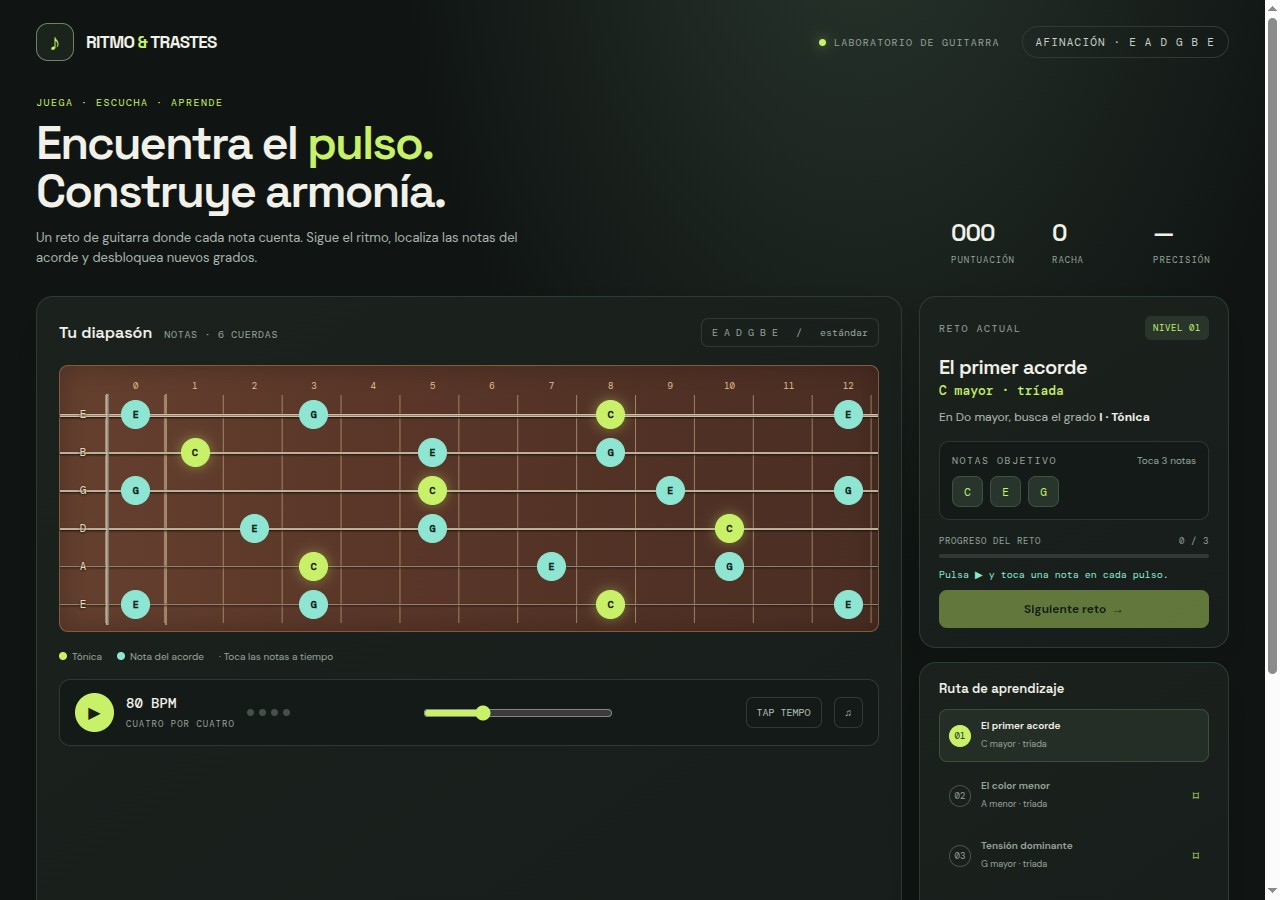
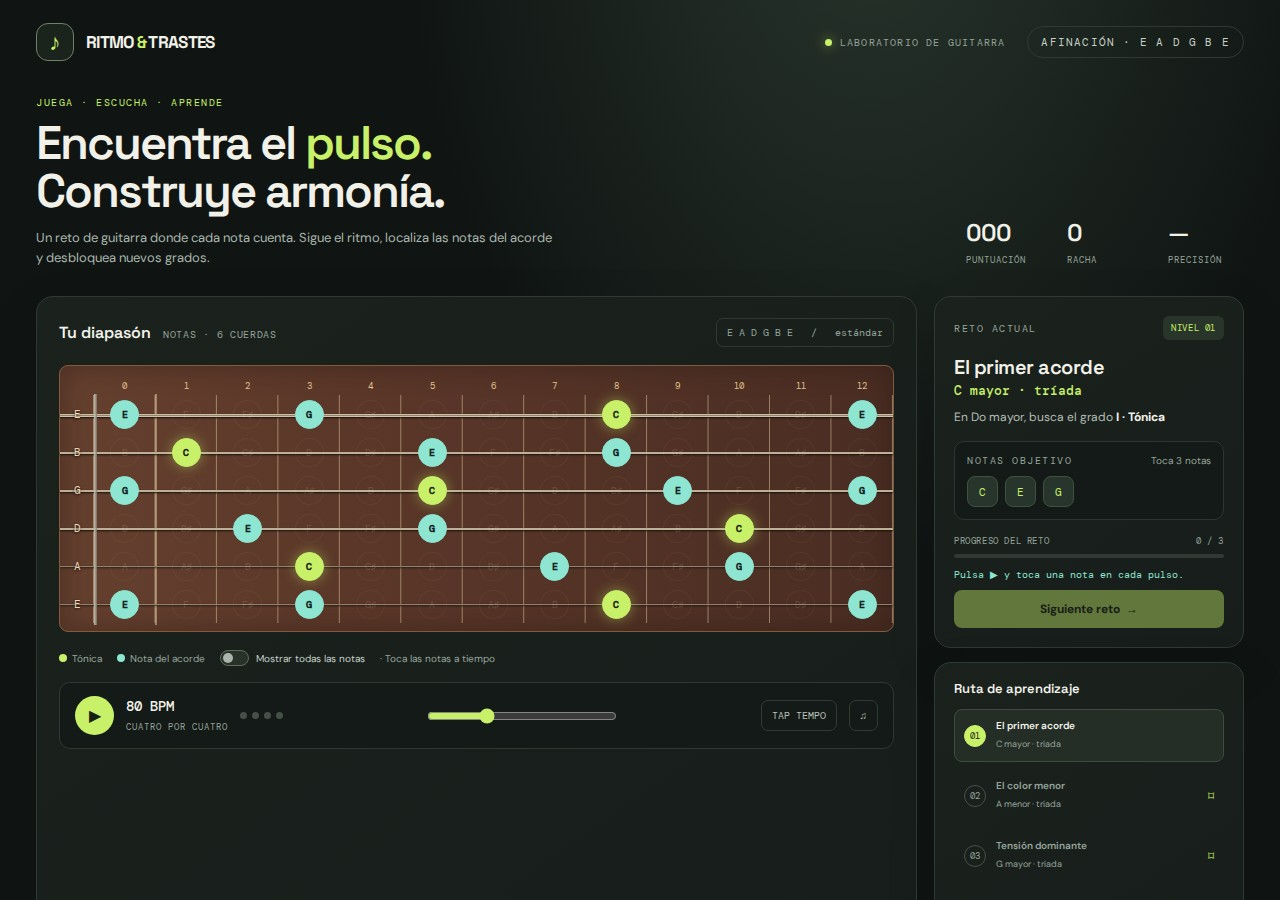
Publish static build for issue #2
Run: 42527793362
Attempt: 1
Generation: 5
Source: b05a051431da198b32a33af918828e517c6f4ea1

diff --git a/index.html b/index.html
@@ -5,15 +5,15 @@
 <title>Ritmo & Trastes — laboratorio de guitarra</title>
 <style>
 @import url('https://fonts.googleapis.com/css2?family=DM+Mono:wght@400;500&family=DM+Sans:wght@400;500;600;700;800&family=Space+Grotesk:wght@500;600;700&display=swap');
-:root{--bg:#101513;--panel:#191f1c;--panel2:#202824;--line:#303a34;--muted:#96a49b;--cream:#f2f1e9;--lime:#c8f169;--orange:#ff875f;--blue:#8de5d2;--wood:#5a3628;--gold:#e5b66e}*{box-sizing:border-box}body{margin:0;background:radial-gradient(ellipse at 68% -12%,#29352d 0,transparent 38%),var(--bg);color:var(--cream);font:15px 'DM Sans',sans-serif;min-height:100vh}button{font:inherit;color:inherit}.shell{max-width:1320px;margin:auto;padding:23px 36px 36px}.topbar,.brand,.top-meta,.hero,.hero-stats,.panel-head,.transport,.transport-left,.transport-right,.challenge-title,.progress-row,.legend,.footer-row{display:flex;align-items:center}.topbar,.hero,.panel-head,.transport,.challenge-title,.progress-row,.footer-row{justify-content:space-between}.topbar{margin-bottom:35px}.brand{gap:12px}.brand-mark{width:38px;height:38px;border:1px solid #718068;border-radius:12px;display:grid;place-items:center;color:var(--lime);font-size:23px;background:#1a231c}.brand-name{font:700 17px 'Space Grotesk';letter-spacing:-.7px}.brand-name span{color:var(--lime)}.top-meta{gap:22px;color:var(--muted);font:10px 'DM Mono';text-transform:uppercase;letter-spacing:1.2px}.live-dot{display:inline-block;width:7px;height:7px;border-radius:50%;background:var(--lime);margin-right:8px;box-shadow:0 0 12px #c8f169a8}.pill{border:1px solid var(--line);border-radius:99px;padding:8px 13px;color:#c5d0c8;font-size:11px}.hero{align-items:flex-end;margin-bottom:28px;gap:25px}.eyebrow,.label{font:10px 'DM Mono';text-transform:uppercase;letter-spacing:1.5px;color:var(--muted)}.eyebrow{color:var(--lime);margin:0 0 11px}.hero h1{font:600 clamp(28px,4vw,47px)/1.02 'Space Grotesk';letter-spacing:-2px;margin:0}.hero h1 em{color:var(--lime);font-style:normal}.sub{color:#aab5ad;max-width:520px;line-height:1.55;font-size:13px;margin:12px 0 0}.hero-stats{gap:25px}.stat{min-width:76px}.stat b{display:block;font:600 24px 'Space Grotesk';letter-spacing:-1px}.stat span{font:9px 'DM Mono';color:var(--muted);letter-spacing:1px;text-transform:uppercase}.layout{display:grid;grid-template-columns:minmax(0,1fr) 310px;gap:17px}.panel{background:linear-gradient(145deg,#1b221e,#171d1a);border:1px solid #303a34;border-radius:17px;box-shadow:0 18px 50px #0002}.board-panel{padding:21px 22px 18px;min-width:0}.panel-head{margin-bottom:17px}.section-title{font:600 16px 'Space Grotesk';margin:0}.section-title small{font:10px 'DM Mono';color:var(--muted);margin-left:8px;letter-spacing:.7px}.tuning{border:1px solid var(--line);padding:7px 10px;border-radius:7px;color:var(--muted);font:10px 'DM Mono'}.board-wrap{overflow-x:auto;padding:1px 0 10px;scrollbar-color:#48564c transparent;scrollbar-width:thin}.fretboard{min-width:720px;position:relative;background:linear-gradient(90deg,#65402f,#5b3729 35%,#4a2d23);border:1px solid #845a3f;border-radius:9px;padding:10px 0 8px;box-shadow:inset 0 0 28px #20130e66}.fret-numbers{display:grid;grid-template-columns:46px repeat(13,minmax(45px,1fr));height:19px;color:#e3c18f;font:9px 'DM Mono';text-align:center;align-items:center}.strings{position:relative;background-image:linear-gradient(to right,transparent calc(100% - 1px),#dbc89c88 calc(100% - 1px));background-repeat:repeat-x;background-size:7.2% 100%;background-position:46px 0}.string-row{display:grid;grid-template-columns:46px repeat(13,minmax(45px,1fr));height:38px;position:relative;align-items:center}.string-row:before{content:'';position:absolute;left:0;right:0;top:50%;height:var(--thick);background:linear-gradient(180deg,#eadbbb,#8f826e 50%,#eee2c9);box-shadow:0 1px 2px #1a100a;pointer-events:none}.string-label{z-index:1;text-align:center;color:#e8d8ba;font:11px 'DM Mono';text-shadow:0 1px 3px #20120c}.fret{z-index:1;justify-self:center;display:grid;place-items:center;width:29px;height:29px;border:1px solid transparent;border-radius:50%;background:transparent;color:transparent;cursor:pointer;font:10px 'DM Mono';transition:.12s}.fret:hover{background:#ffffff18;color:#f8eaca;border-color:#ffffff30}.fret.root{background:var(--lime);color:#182015;border-color:var(--lime);font-weight:700;box-shadow:0 0 13px #c8f16970}.fret.in-chord{background:#8de5d2;color:#13211d;border-color:#8de5d2;font-weight:700}.fret.hit{transform:scale(1.18);box-shadow:0 0 0 4px #fff5}.fret.muted{cursor:default}.fretboard:after{content:'';position:absolute;left:46px;top:28px;bottom:6px;width:3px;background:linear-gradient(90deg,#d9d3c4,#77736b);opacity:.85;pointer-events:none}.fretboard:before{content:'';position:absolute;left:calc(46px + (100% - 46px)/13);top:28px;bottom:6px;width:2px;background:#dbc89c88;pointer-events:none}.legend{gap:15px;margin-top:8px;color:var(--muted);font-size:10px}.key{display:inline-block;width:8px;height:8px;border-radius:50%;margin-right:5px;background:var(--lime)}.key.blue{background:var(--blue)}.transport{margin-top:16px;padding:13px 15px;background:#141a17;border:1px solid #2e3932;border-radius:11px;gap:12px}.transport-left,.transport-right{gap:12px}.play-btn{width:39px;height:39px;border:0;border-radius:50%;background:var(--lime);color:#172015;font-size:16px;cursor:pointer}.play-btn:hover,.primary:hover{filter:brightness(1.08);transform:translateY(-1px)}.tempo b{font:500 14px 'DM Mono';display:block}.tempo small{color:var(--muted);font:9px 'DM Mono';letter-spacing:1px}.tempo-range{width:min(190px,19vw);accent-color:var(--lime)}.tap-btn,.icon-btn{background:transparent;border:1px solid var(--line);border-radius:7px;padding:8px 10px;font:10px 'DM Mono';color:#b4c0b7;cursor:pointer}.beat-lights{display:flex;gap:5px}.beat{width:7px;height:7px;border-radius:50%;background:#445048}.beat.on{background:var(--lime);box-shadow:0 0 9px #c8f169}.aside{display:flex;flex-direction:column;gap:14px}.challenge{padding:19px}.challenge-title{gap:10px}.badge{background:#29352b;color:var(--lime);padding:6px 8px;border-radius:6px;font:9px 'DM Mono';letter-spacing:.6px}.challenge h2{font:600 20px 'Space Grotesk';letter-spacing:-.5px;margin:14px 0 2px}.chord-name{color:var(--lime);font:500 13px 'DM Mono'}.degree-line{font-size:12px;color:#b1bbb3;margin:10px 0 16px}.degree-line strong{color:var(--cream)}.target-card{background:#141a17;border:1px solid #2c3630;border-radius:10px;padding:12px}.target-top{display:flex;justify-content:space-between;align-items:center;margin-bottom:9px}.target-notes{display:flex;gap:7px;flex-wrap:wrap}.note-chip{width:31px;height:31px;border-radius:8px;display:grid;place-items:center;background:#27352c;color:var(--lime);font:11px 'DM Mono';border:1px solid #3e523f}.note-chip.done{background:var(--lime);color:#182015}.target-hint{color:var(--muted);font-size:10px}.progress-row{margin:15px 0 7px;color:var(--muted);font:9px 'DM Mono';letter-spacing:.6px}.progress{height:4px;background:#303a34;border-radius:4px;overflow:hidden}.progress i{display:block;height:100%;width:0;background:var(--lime);transition:width .25s}.feedback{height:22px;margin-top:10px;color:var(--blue);font:10px 'DM Mono'}.primary{width:100%;background:var(--lime);color:#182015;border:0;border-radius:8px;padding:11px;font-weight:700;font-size:12px;cursor:pointer;transition:.15s}.primary:disabled{opacity:.42;cursor:not-allowed;transform:none}.levels{padding:17px 19px}.levels h3{margin:0 0 12px;font:600 13px 'Space Grotesk'}.level-list{display:grid;gap:7px}.level-item{display:flex;align-items:center;gap:10px;padding:9px;border-radius:8px;border:1px solid transparent;color:#96a49b}.level-item.active{background:#242d26;border-color:#3e4c40;color:var(--cream)}.level-num{width:22px;height:22px;display:grid;place-items:center;border:1px solid #465148;border-radius:50%;font:9px 'DM Mono'}.level-item.active .level-num,.level-item.complete .level-num{background:var(--lime);color:#172015;border-color:var(--lime)}.level-info{flex:1}.level-info b{display:block;font-size:10px;font-weight:600}.level-info small{color:var(--muted);font-size:9px}.level-check{color:var(--lime);font-size:12px}.coach{padding:15px 17px;background:#1d2822;border:1px solid #34463a;border-radius:12px}.coach .label{color:var(--blue)}.coach p{margin:7px 0 0;color:#bdc9c0;font-size:11px;line-height:1.55}.footer-row{margin-top:17px;color:#77857a;font:9px 'DM Mono';letter-spacing:.6px}.footer-row a{color:#a7b3a9;text-decoration:none}.toast{position:fixed;left:50%;bottom:22px;transform:translate(-50%,20px);background:#d5f786;color:#172015;padding:11px 17px;border-radius:10px;font-weight:700;font-size:12px;opacity:0;pointer-events:none;transition:.2s;box-shadow:0 8px 30px #0006}.toast.show{opacity:1;transform:translate(-50%,0)}
-@media(max-width:900px){.shell{padding:20px}.layout{grid-template-columns:1fr}.aside{display:grid;grid-template-columns:1fr 1fr}.coach{grid-column:1/-1}.hero-stats{gap:16px}.hero-stats .stat:last-child{display:none}}@media(max-width:600px){.shell{padding:15px 13px 25px}.topbar{margin-bottom:25px}.top-meta{gap:8px}.top-meta .pill{display:none}.hero{display:block}.hero-stats{margin-top:20px;justify-content:flex-start}.hero-stats .stat:last-child{display:block}.hero h1{font-size:35px}.sub{font-size:12px}.board-panel{padding:15px 12px}.aside{grid-template-columns:1fr}.coach{grid-column:auto}.transport{flex-wrap:wrap;padding:11px}.tempo-range{width:100%;order:3}.transport-left{flex:1}.transport-right{gap:7px}.beat-lights{display:none}.fretboard{min-width:700px}.footer-row{font-size:8px}}
+:root{--bg:#101513;--panel:#191f1c;--panel2:#202824;--line:#303a34;--muted:#96a49b;--cream:#f2f1e9;--lime:#c8f169;--orange:#ff875f;--blue:#8de5d2;--wood:#5a3628;--gold:#e5b66e}*{box-sizing:border-box}body{margin:0;background:radial-gradient(ellipse at 68% -12%,#29352d 0,transparent 38%),var(--bg);color:var(--cream);font:15px 'DM Sans',sans-serif;min-height:100vh}button{font:inherit;color:inherit}.shell{max-width:1320px;margin:auto;padding:23px 36px 36px}.topbar,.brand,.top-meta,.hero,.hero-stats,.panel-head,.transport,.transport-left,.transport-right,.challenge-title,.progress-row,.legend,.footer-row{display:flex;align-items:center}.topbar,.hero,.panel-head,.transport,.challenge-title,.progress-row,.footer-row{justify-content:space-between}.topbar{margin-bottom:35px}.brand{gap:12px}.brand-mark{width:38px;height:38px;border:1px solid #718068;border-radius:12px;display:grid;place-items:center;color:var(--lime);font-size:23px;background:#1a231c}.brand-name{font:700 17px 'Space Grotesk';letter-spacing:-.7px}.brand-name span{color:var(--lime)}.top-meta{gap:22px;color:var(--muted);font:10px 'DM Mono';text-transform:uppercase;letter-spacing:1.2px}.live-dot{display:inline-block;width:7px;height:7px;border-radius:50%;background:var(--lime);margin-right:8px;box-shadow:0 0 12px #c8f169a8}.pill{border:1px solid var(--line);border-radius:99px;padding:8px 13px;color:#c5d0c8;font-size:11px}.hero{align-items:flex-end;margin-bottom:28px;gap:25px}.eyebrow,.label{font:10px 'DM Mono';text-transform:uppercase;letter-spacing:1.5px;color:var(--muted)}.eyebrow{color:var(--lime);margin:0 0 11px}.hero h1{font:600 clamp(28px,4vw,47px)/1.02 'Space Grotesk';letter-spacing:-2px;margin:0}.hero h1 em{color:var(--lime);font-style:normal}.sub{color:#aab5ad;max-width:520px;line-height:1.55;font-size:13px;margin:12px 0 0}.hero-stats{gap:25px}.stat{min-width:76px}.stat b{display:block;font:600 24px 'Space Grotesk';letter-spacing:-1px}.stat span{font:9px 'DM Mono';color:var(--muted);letter-spacing:1px;text-transform:uppercase}.layout{display:grid;grid-template-columns:minmax(0,1fr) 310px;gap:17px}.panel{background:linear-gradient(145deg,#1b221e,#171d1a);border:1px solid #303a34;border-radius:17px;box-shadow:0 18px 50px #0002}.board-panel{padding:21px 22px 18px;min-width:0}.panel-head{margin-bottom:17px}.section-title{font:600 16px 'Space Grotesk';margin:0}.section-title small{font:10px 'DM Mono';color:var(--muted);margin-left:8px;letter-spacing:.7px}.tuning{border:1px solid var(--line);padding:7px 10px;border-radius:7px;color:var(--muted);font:10px 'DM Mono'}.board-wrap{width:100%;min-width:0;overflow-x:hidden;padding:1px 0 10px}.fretboard{width:100%;min-width:0;position:relative;background:linear-gradient(90deg,#65402f,#5b3729 35%,#4a2d23);border:1px solid #845a3f;border-radius:9px;padding:10px 0 8px;box-shadow:inset 0 0 28px #20130e66}.fret-numbers{display:grid;grid-template-columns:34px repeat(13,minmax(0,1fr));height:19px;color:#e3c18f;font:9px 'DM Mono';text-align:center;align-items:center}.strings{position:relative;background-image:linear-gradient(to right,transparent calc(100% - 1px),#dbc89c88 calc(100% - 1px));background-repeat:repeat-x;background-size:calc((100% - 34px)/13) 100%;background-position:34px 0}.string-row{display:grid;grid-template-columns:34px repeat(13,minmax(0,1fr));height:38px;position:relative;align-items:center}.string-row:before{content:'';position:absolute;left:0;right:0;top:50%;height:var(--thick);background:linear-gradient(180deg,#eadbbb,#8f826e 50%,#eee2c9);box-shadow:0 1px 2px #1a100a;pointer-events:none}.string-label{z-index:1;text-align:center;color:#e8d8ba;font:11px 'DM Mono';text-shadow:0 1px 3px #20120c}.fret{z-index:1;justify-self:center;display:grid;place-items:center;width:29px;height:29px;border:1px solid transparent;border-radius:50%;background:transparent;color:transparent;cursor:pointer;font:10px 'DM Mono';transition:.12s}.fret:hover{background:#ffffff18;color:#f8eaca;border-color:#ffffff30}.fret.root{background:var(--lime);color:#182015;border-color:var(--lime);font-weight:700;box-shadow:0 0 13px #c8f16970}.fret.in-chord{background:#8de5d2;color:#13211d;border-color:#8de5d2;font-weight:700}.fretboard.show-all .fret:not(.root):not(.in-chord){background:#241912b8;color:#f8eaca;border-color:#d6b98a66}.fretboard.show-all .fret:hover{background:#ffffff30}.fret.hit{transform:scale(1.18);box-shadow:0 0 0 4px #fff5}.fret.muted{cursor:default}.fretboard:after{content:'';position:absolute;left:34px;top:28px;bottom:6px;width:3px;background:linear-gradient(90deg,#d9d3c4,#77736b);opacity:.85;pointer-events:none}.fretboard:before{content:'';position:absolute;left:calc(34px + (100% - 34px)/13);top:28px;bottom:6px;width:2px;background:#dbc89c88;pointer-events:none}.legend{gap:15px;margin-top:8px;color:var(--muted);font-size:10px;flex-wrap:wrap}.key{display:inline-block;width:8px;height:8px;border-radius:50%;margin-right:5px;background:var(--lime)}.key.blue{background:var(--blue)}.show-notes-toggle{display:inline-flex;align-items:center;gap:7px;cursor:pointer;white-space:nowrap;color:#c5d0c8}.show-notes-toggle input{position:absolute;width:1px;height:1px;opacity:0}.switch{width:29px;height:16px;border:1px solid #536257;border-radius:99px;background:#28322b;position:relative;transition:.18s;pointer-events:none}.switch:after{content:'';position:absolute;width:10px;height:10px;left:2px;top:2px;border-radius:50%;background:#aab5ad;transition:.18s}.show-notes-toggle input:checked+.switch{background:#485e33;border-color:var(--lime)}.show-notes-toggle input:checked+.switch:after{transform:translateX(13px);background:var(--lime)}.show-notes-toggle input:focus-visible+.switch{outline:2px solid var(--cream);outline-offset:2px}.transport{margin-top:16px;padding:13px 15px;background:#141a17;border:1px solid #2e3932;border-radius:11px;gap:12px}.transport-left,.transport-right{gap:12px}.play-btn{width:39px;height:39px;border:0;border-radius:50%;background:var(--lime);color:#172015;font-size:16px;cursor:pointer}.play-btn:hover,.primary:hover{filter:brightness(1.08);transform:translateY(-1px)}.tempo b{font:500 14px 'DM Mono';display:block}.tempo small{color:var(--muted);font:9px 'DM Mono';letter-spacing:1px}.tempo-range{width:min(190px,19vw);accent-color:var(--lime)}.tap-btn,.icon-btn{background:transparent;border:1px solid var(--line);border-radius:7px;padding:8px 10px;font:10px 'DM Mono';color:#b4c0b7;cursor:pointer}.beat-lights{display:flex;gap:5px}.beat{width:7px;height:7px;border-radius:50%;background:#445048}.beat.on{background:var(--lime);box-shadow:0 0 9px #c8f169}.aside{display:flex;flex-direction:column;gap:14px}.challenge{padding:19px}.challenge-title{gap:10px}.badge{background:#29352b;color:var(--lime);padding:6px 8px;border-radius:6px;font:9px 'DM Mono';letter-spacing:.6px}.challenge h2{font:600 20px 'Space Grotesk';letter-spacing:-.5px;margin:14px 0 2px}.chord-name{color:var(--lime);font:500 13px 'DM Mono'}.degree-line{font-size:12px;color:#b1bbb3;margin:10px 0 16px}.degree-line strong{color:var(--cream)}.target-card{background:#141a17;border:1px solid #2c3630;border-radius:10px;padding:12px}.target-top{display:flex;justify-content:space-between;align-items:center;margin-bottom:9px}.target-notes{display:flex;gap:7px;flex-wrap:wrap}.note-chip{width:31px;height:31px;border-radius:8px;display:grid;place-items:center;background:#27352c;color:var(--lime);font:11px 'DM Mono';border:1px solid #3e523f}.note-chip.done{background:var(--lime);color:#182015}.target-hint{color:var(--muted);font-size:10px}.progress-row{margin:15px 0 7px;color:var(--muted);font:9px 'DM Mono';letter-spacing:.6px}.progress{height:4px;background:#303a34;border-radius:4px;overflow:hidden}.progress i{display:block;height:100%;width:0;background:var(--lime);transition:width .25s}.feedback{height:22px;margin-top:10px;color:var(--blue);font:10px 'DM Mono'}.primary{width:100%;background:var(--lime);color:#182015;border:0;border-radius:8px;padding:11px;font-weight:700;font-size:12px;cursor:pointer;transition:.15s}.primary:disabled{opacity:.42;cursor:not-allowed;transform:none}.levels{padding:17px 19px}.levels h3{margin:0 0 12px;font:600 13px 'Space Grotesk'}.level-list{display:grid;gap:7px}.level-item{display:flex;align-items:center;gap:10px;padding:9px;border-radius:8px;border:1px solid transparent;color:#96a49b}.level-item.active{background:#242d26;border-color:#3e4c40;color:var(--cream)}.level-num{width:22px;height:22px;display:grid;place-items:center;border:1px solid #465148;border-radius:50%;font:9px 'DM Mono'}.level-item.active .level-num,.level-item.complete .level-num{background:var(--lime);color:#172015;border-color:var(--lime)}.level-info{flex:1}.level-info b{display:block;font-size:10px;font-weight:600}.level-info small{color:var(--muted);font-size:9px}.level-check{color:var(--lime);font-size:12px}.coach{padding:15px 17px;background:#1d2822;border:1px solid #34463a;border-radius:12px}.coach .label{color:var(--blue)}.coach p{margin:7px 0 0;color:#bdc9c0;font-size:11px;line-height:1.55}.footer-row{margin-top:17px;color:#77857a;font:9px 'DM Mono';letter-spacing:.6px}.footer-row a{color:#a7b3a9;text-decoration:none}.toast{position:fixed;left:50%;bottom:22px;transform:translate(-50%,20px);background:#d5f786;color:#172015;padding:11px 17px;border-radius:10px;font-weight:700;font-size:12px;opacity:0;pointer-events:none;transition:.2s;box-shadow:0 8px 30px #0006}.toast.show{opacity:1;transform:translate(-50%,0)}
+@media(max-width:900px){.shell{padding:20px}.layout{grid-template-columns:1fr}.aside{display:grid;grid-template-columns:1fr 1fr}.coach{grid-column:1/-1}.hero-stats{gap:16px}.hero-stats .stat:last-child{display:none}}@media(max-width:600px){.shell{padding:15px 13px 25px}.topbar{margin-bottom:25px}.top-meta{gap:8px}.top-meta .pill{display:none}.hero{display:block}.hero-stats{margin-top:20px;justify-content:flex-start}.hero-stats .stat:last-child{display:block}.hero h1{font-size:35px}.sub{font-size:12px}.board-panel{padding:15px 12px}.aside{grid-template-columns:1fr}.coach{grid-column:auto}.transport{flex-wrap:wrap;padding:11px}.tempo-range{width:100%;order:3}.transport-left{flex:1}.transport-right{gap:7px}.beat-lights{display:none}.fretboard{min-width:0}.fret-numbers,.string-row{grid-template-columns:28px repeat(13,minmax(0,1fr))}.strings{background-position:28px 0;background-size:calc((100% - 28px)/13) 100%}.fretboard:after{left:28px}.fretboard:before{left:calc(28px + (100% - 28px)/13)}.fret{width:100%;height:26px;font-size:clamp(7px,2.4vw,10px);padding:0}.string-row{height:33px}.legend{gap:9px;font-size:9px}.play-hint{width:100%;padding-left:0}.footer-row{font-size:8px}}
 </style>
 </head>
 <body>
 <main class="shell">
 <header class="topbar"><div class="brand"><div class="brand-mark">♪</div><div class="brand-name">RITMO <span>&</span> TRASTES</div></div><div class="top-meta"><span><i class="live-dot"></i>LABORATORIO DE GUITARRA</span><span class="pill">AFINACIÓN · E A D G B E</span></div></header>
 <section class="hero"><div><p class="eyebrow">JUEGA · ESCUCHA · APRENDE</p><h1>Encuentra el <em>pulso.</em><br>Construye armonía.</h1><p class="sub">Un reto de guitarra donde cada nota cuenta. Sigue el ritmo, localiza las notas del acorde y desbloquea nuevos grados.</p></div><div class="hero-stats"><div class="stat"><b id="score">000</b><span>Puntuación</span></div><div class="stat"><b id="streak">0</b><span>Racha</span></div><div class="stat"><b id="accuracy">—</b><span>Precisión</span></div></div></section>
-<div class="layout"><section class="panel board-panel"><div class="panel-head"><h2 class="section-title">Tu diapasón <small>NOTAS · 6 CUERDAS</small></h2><span class="tuning">E A D G B E &nbsp; / &nbsp; estándar</span></div><div class="board-wrap"><div class="fretboard"><div class="fret-numbers" id="fretNumbers"></div><div class="strings" id="strings"></div></div></div><div class="legend"><span><i class="key"></i>Tónica</span><span><i class="key blue"></i>Nota del acorde</span><span>· Toca las notas a tiempo</span></div><div class="transport"><div class="transport-left"><button class="play-btn" id="play" aria-label="Iniciar metrónomo">▶</button><div class="tempo"><b><span id="bpm">80</span> BPM</b><small>CUATRO POR CUATRO</small></div><div class="beat-lights" id="lights"><i class="beat"></i><i class="beat"></i><i class="beat"></i><i class="beat"></i></div></div><input class="tempo-range" id="tempo" type="range" min="50" max="150" value="80" aria-label="Tempo"><div class="transport-right"><button class="tap-btn" id="tap">TAP TEMPO</button><button class="icon-btn" id="sound" aria-label="Silenciar sonido">♫</button></div></div></section>
+<div class="layout"><section class="panel board-panel"><div class="panel-head"><h2 class="section-title">Tu diapasón <small>NOTAS · 6 CUERDAS</small></h2><span class="tuning">E A D G B E &nbsp; / &nbsp; estándar</span></div><div class="board-wrap"><div class="fretboard"><div class="fret-numbers" id="fretNumbers"></div><div class="strings" id="strings"></div></div></div><div class="legend"><span><i class="key"></i>Tónica</span><span><i class="key blue"></i>Nota del acorde</span><label class="show-notes-toggle"><input id="showAllNotes" type="checkbox"><span class="switch" aria-hidden="true"></span><span>Mostrar todas las notas</span></label><span class="play-hint">· Toca las notas a tiempo</span></div><div class="transport"><div class="transport-left"><button class="play-btn" id="play" aria-label="Iniciar metrónomo">▶</button><div class="tempo"><b><span id="bpm">80</span> BPM</b><small>CUATRO POR CUATRO</small></div><div class="beat-lights" id="lights"><i class="beat"></i><i class="beat"></i><i class="beat"></i><i class="beat"></i></div></div><input class="tempo-range" id="tempo" type="range" min="50" max="150" value="80" aria-label="Tempo"><div class="transport-right"><button class="tap-btn" id="tap">TAP TEMPO</button><button class="icon-btn" id="sound" aria-label="Silenciar sonido">♫</button></div></div></section>
 <aside class="aside"><section class="panel challenge"><div class="challenge-title"><span class="label">RETO ACTUAL</span><span class="badge" id="levelBadge">NIVEL 01</span></div><h2 id="challengeName">El primer acorde</h2><div class="chord-name" id="chordName">C mayor · tríada</div><div class="degree-line">En Do mayor, busca el grado <strong id="degree">I · Tónica</strong></div><div class="target-card"><div class="target-top"><span class="label">NOTAS OBJETIVO</span><span class="target-hint" id="targetHint">Toca 3 notas</span></div><div class="target-notes" id="targetNotes"></div></div><div class="progress-row"><span>PROGRESO DEL RETO</span><span id="progressText">0 / 3</span></div><div class="progress"><i id="progressBar"></i></div><div class="feedback" id="feedback">Pulsa ▶ y toca una nota en cada pulso.</div><button class="primary" id="next" disabled>Siguiente reto&nbsp; →</button></section>
 <section class="panel levels"><h3>Ruta de aprendizaje</h3><div class="level-list" id="levelList"></div></section><section class="coach"><div class="label">PISTA DE TEORÍA</div><p id="theory">Una tríada mayor se forma con la tónica, la tercera mayor y la quinta justa: 1 – 3 – 5.</p></section></aside></div>
 <div class="footer-row"><span>HECHO PARA ESCUCHAR CON ATENCIÓN · NO HACE FALTA SABER LEER PARTITURA</span><span>TEORÍA EN PEQUEÑAS DOSIS <a href="#">↑</a></span></div></main><div class="toast" id="toast"></div>
@@ -29,17 +29,17 @@ const lessons=[
 ];
 let lesson=0, hitNotes=[], score=0, streak=0, attempts=0, successes=0, running=false, audioOn=true, beat=0, timer=null, lastTap=0, audioCtx=null, beatAt=0;
 const $=id=>document.getElementById(id); const mod=(n,m)=>((n%m)+m)%m;
-function makeBoard(){ $('fretNumbers').innerHTML='<span></span>'+Array.from({length:13},(_,i)=>`<span>${i===0?'0':i}</span>`).join(''); $('strings').innerHTML=strings.map((s,si)=>`<div class="string-row" style="--thick:${s.thick}px"><span class="string-label">${s.name}</span>${Array.from({length:13},(_,f)=>{let n=mod(s.midi+f,12);return `<button class="fret" data-note="${n}" data-string="${si}" data-fret="${f}" aria-label="${s.name}, traste ${f}, ${noteNames[n]}">${noteNames[n]}</button>`}).join('')}</div>`).join(''); $('strings').addEventListener('click',e=>{let b=e.target.closest('.fret');if(b)playNote(+b.dataset.note,b)}); }
+function makeBoard(){ $('fretNumbers').innerHTML='<span></span>'+Array.from({length:13},(_,i)=>`<span>${i===0?'0':i}</span>`).join(''); $('strings').innerHTML=strings.map((s,si)=>`<div class="string-row" style="--thick:${s.thick}px"><span class="string-label">${s.name}</span>${Array.from({length:13},(_,f)=>{let n=mod(s.midi+f,12);return `<button class="fret" data-note="${n}" data-string="${si}" data-fret="${f}" data-midi="${s.midi+f}" aria-label="${s.name}, traste ${f}, ${noteNames[n]}${Math.floor((s.midi+f)/12)-1}">${noteNames[n]}</button>`}).join('')}</div>`).join(''); $('strings').addEventListener('click',e=>{let b=e.target.closest('.fret');if(b)playNote(+b.dataset.note,b,+b.dataset.midi)}); }
 function drawLesson(){let l=lessons[lesson]; $('challengeName').textContent=l.name;$('chordName').textContent=`${l.chord} · ${l.quality}`;$('degree').textContent=l.degree;$('targetHint').textContent=l.hint;$('levelBadge').textContent=`NIVEL ${String(lesson+1).padStart(2,'0')}`;$('theory').textContent=l.theory;$('targetNotes').innerHTML=l.notes.slice(0,Math.min(l.notes.length,12)).map((n,i)=>`<span class="note-chip ${hitNotes[i]?'done':''}">${noteNames[n]}</span>`).join('');$('progressText').textContent=`${hitNotes.length} / ${l.notes.length}`;$('progressBar').style.width=`${hitNotes.length/l.notes.length*100}%`;$('next').disabled=hitNotes.length<l.notes.length;$('feedback').textContent=hitNotes.length===l.notes.length?'¡Reto completado! Gran trabajo.':hitNotes.length?'Bien. Sigue el pulso.':'Pulsa ▶ y toca una nota en cada pulso.';makeHighlights();drawLevels();}
 function makeHighlights(){let l=lessons[lesson];document.querySelectorAll('.fret').forEach(b=>{let n=+b.dataset.note;b.classList.toggle('root',n===l.notes[0]);b.classList.toggle('in-chord',l.notes.includes(n)&&n!==l.notes[0]);});}
 function drawLevels(){ $('levelList').innerHTML=lessons.map((l,i)=>`<div class="level-item ${i===lesson?'active':''} ${i<lesson?'complete':''}"><span class="level-num">${i<lesson?'✓':String(i+1).padStart(2,'0')}</span><span class="level-info"><b>${l.name}</b><small>${l.chord} · ${l.quality}</small></span>${i>lesson?'<span class="level-check">⌑</span>':''}</div>`).join('');}
-function sound(freq,dur=.11){if(!audioOn)return;try{audioCtx ||= new (window.AudioContext||window.webkitAudioContext)();if(audioCtx.state==='suspended')audioCtx.resume();let o=audioCtx.createOscillator(),g=audioCtx.createGain();o.type='triangle';o.frequency.value=freq;g.gain.setValueAtTime(.0001,audioCtx.currentTime);g.gain.exponentialRampToValueAtTime(.18,audioCtx.currentTime+.008);g.gain.exponentialRampToValueAtTime(.0001,audioCtx.currentTime+dur);o.connect(g);g.connect(audioCtx.destination);o.start();o.stop(audioCtx.currentTime+dur)}catch(e){}}
+function sound(freq,dur=.11,plucked=false){if(!audioOn)return;try{audioCtx ||= new (window.AudioContext||window.webkitAudioContext)();if(audioCtx.state==='suspended')audioCtx.resume();let now=audioCtx.currentTime,g=audioCtx.createGain();g.gain.setValueAtTime(.0001,now);g.gain.exponentialRampToValueAtTime(plucked ? .22 : .18,now+(plucked ? .004 : .008));g.gain.exponentialRampToValueAtTime(.0001,now+dur);g.connect(audioCtx.destination);let partials=plucked?[[1,.72,'triangle'],[2,.2,'sine'],[3,.08,'sine']]:[[1,1,'triangle']];partials.forEach(([ratio,level,type])=>{let o=audioCtx.createOscillator(),pg=audioCtx.createGain();o.type=type;o.frequency.value=freq*ratio;pg.gain.value=level;o.connect(pg);pg.connect(g);o.start(now);o.stop(now+dur)});}catch(e){}}
 function tick(){beat=(beat+1)%4;document.querySelectorAll('.beat').forEach((el,i)=>el.classList.toggle('on',i===beat));sound(beat===0?880:beat===2?660:440,.055);beatAt=performance.now();}
 function toggle(){running=!running;$('play').textContent=running?'Ⅱ':'▶';if(running){tick();timer=setInterval(tick,60000/+$('tempo').value)}else{clearInterval(timer);document.querySelectorAll('.beat').forEach(x=>x.classList.remove('on'))}}
-function playNote(n,button){sound(220*Math.pow(2,(n-9)/12),.22);button.classList.add('hit');setTimeout(()=>button.classList.remove('hit'),160);attempts++;let l=lessons[lesson], target=l.notes[hitNotes.length], timing=running?Math.abs(performance.now()-beatAt):999;let onBeat=!running||Math.min(timing,60000/+$('tempo').value-timing)<180;
+function playNote(n,button,midi){sound(440*Math.pow(2,(midi-69)/12),.32,true);button.classList.add('hit');setTimeout(()=>button.classList.remove('hit'),160);attempts++;let l=lessons[lesson], target=l.notes[hitNotes.length], timing=running?Math.abs(performance.now()-beatAt):999;let onBeat=!running||Math.min(timing,60000/+$('tempo').value-timing)<180;
  if(n===target&&onBeat){hitNotes.push(n);successes++;streak++;score+=100+Math.min(streak*5,50);$('feedback').textContent=running?'¡A tiempo! Nota correcta.':'Nota correcta. Activa el metrónomo para practicar el ritmo.';if(hitNotes.length===l.notes.length){score+=200;showToast('¡Reto superado! +200')} }else{streak=0;$('feedback').textContent=n===target?'Nota correcta, pero fuera de pulso. ¡Prueba otra vez!':`Busca ${noteNames[target]} — mira las notas objetivo.`}updateStats();drawLesson();}
 function updateStats(){$('score').textContent=String(score).padStart(3,'0');$('streak').textContent=streak;$('accuracy').textContent=attempts?`${Math.round(successes/attempts*100)}%`:'—';}
 function showToast(t){let x=$('toast');x.textContent=t;x.classList.add('show');setTimeout(()=>x.classList.remove('show'),1700)}
 $('play').onclick=toggle;$('tempo').oninput=e=>{$('bpm').textContent=e.target.value;if(running){clearInterval(timer);timer=setInterval(tick,60000/+e.target.value)}};$('sound').onclick=()=>{audioOn=!audioOn;$('sound').textContent=audioOn?'♫':'♪';$('sound').style.opacity=audioOn?'1':'.45'};$('tap').onclick=()=>{let now=Date.now();if(lastTap){let bpm=Math.round(60000/(now-lastTap));if(bpm>=50&&bpm<=150){$('tempo').value=bpm;$('bpm').textContent=bpm;if(running){clearInterval(timer);timer=setInterval(tick,60000/bpm)}}}lastTap=now};$('next').onclick=()=>{if(hitNotes.length<lessons[lesson].notes.length)return;if(lesson<lessons.length-1){lesson++;hitNotes=[];drawLesson();showToast(`Nivel ${lesson+1} desbloqueado`)}else{lesson=0;hitNotes=[];score+=500;drawLesson();showToast('¡Ruta completada! +500')}};
-makeBoard();drawLesson();
+$('showAllNotes').addEventListener('change',e=>document.querySelector('.fretboard').classList.toggle('show-all',e.target.checked));makeBoard();drawLesson();
 </script></body></html>
